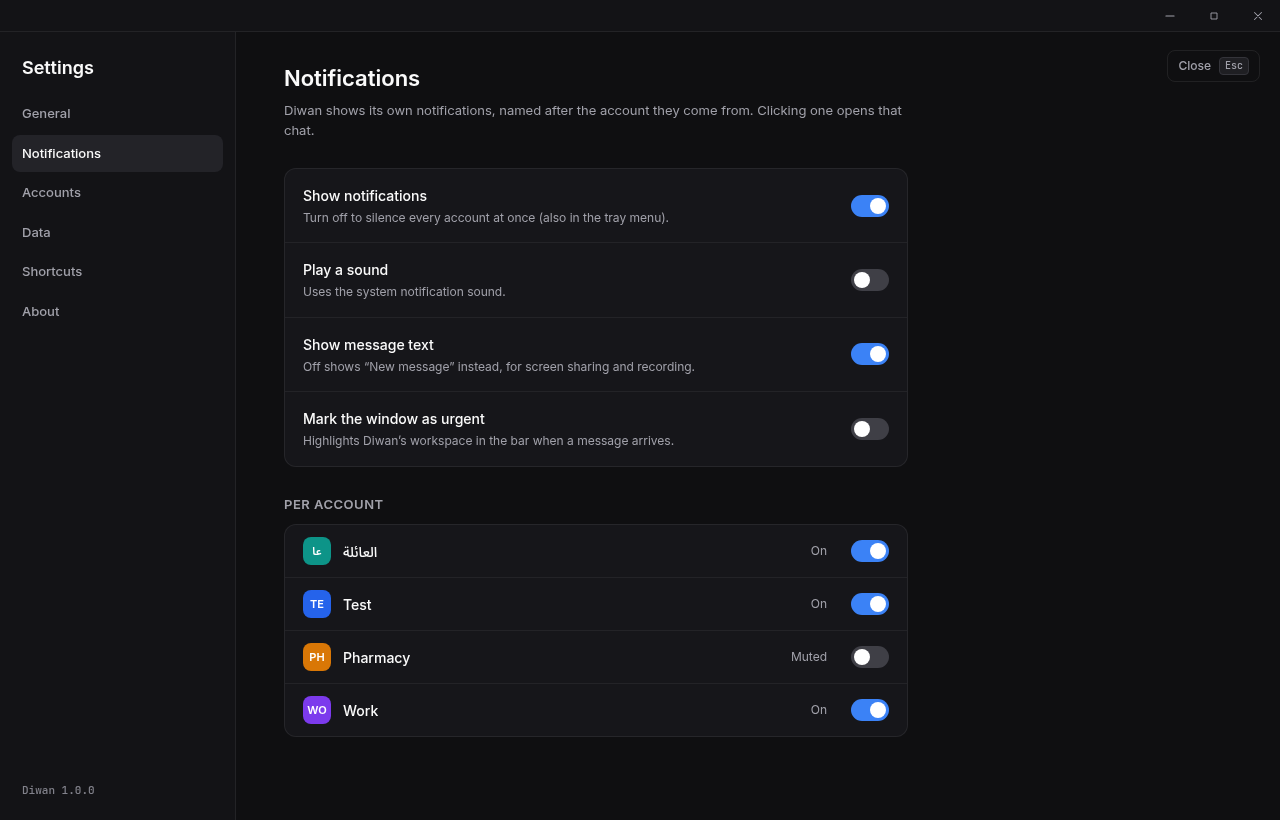
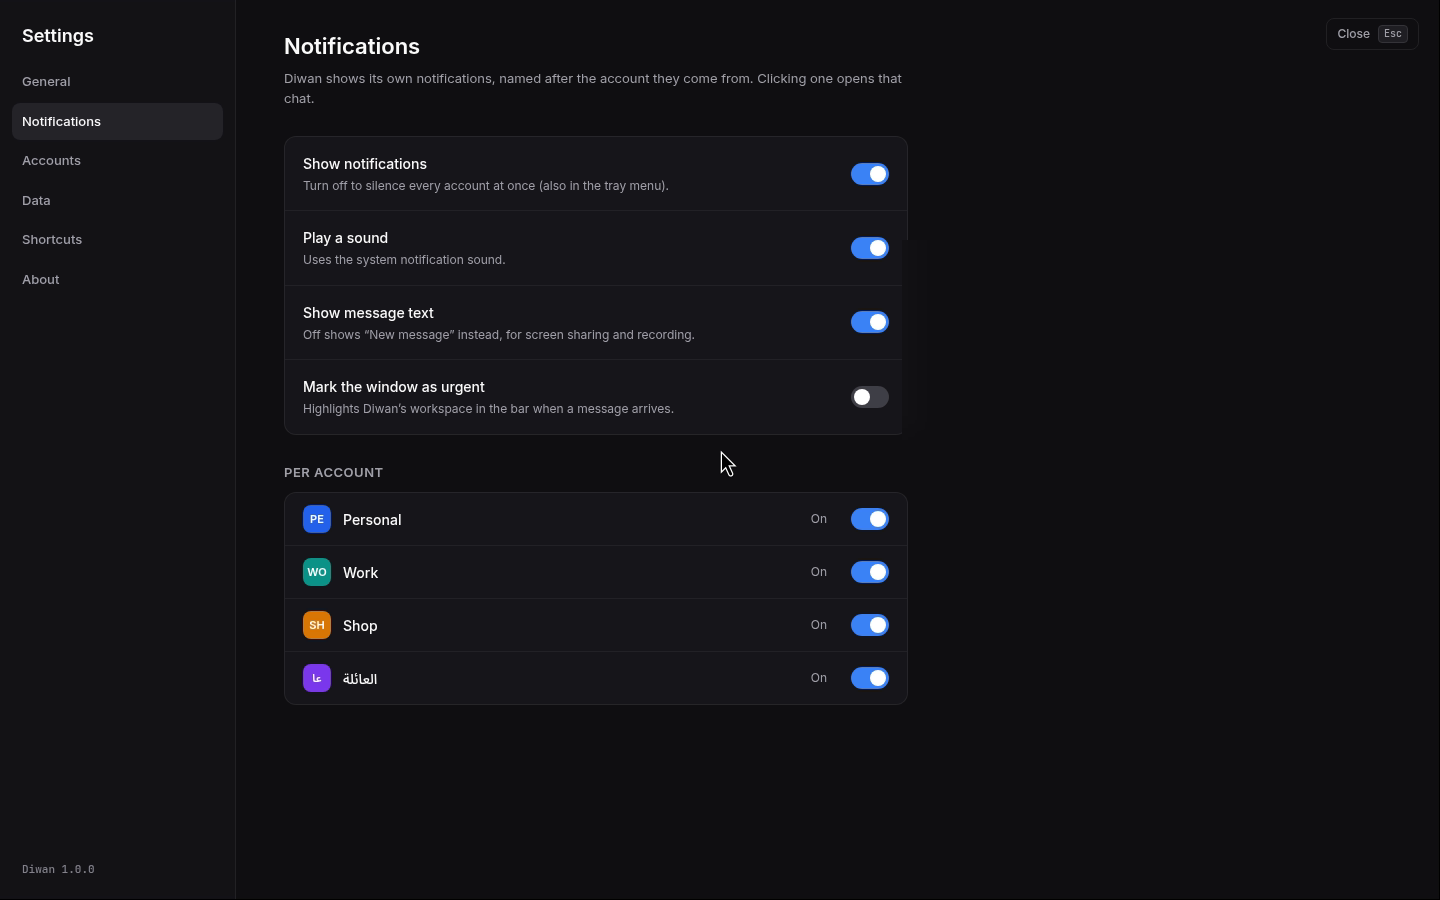
docs: real screenshots and a demo GIF (demo accounts, QR blurred)
Claude-Session: https://claude.ai/code/session_01LeCL23UAbcRLcFKBBvaxuv

diff --git a/README.md b/README.md
@@ -31,11 +31,20 @@ with its own notifications and unread count, one shortcut away.
 
 <br>
 
-<img src="docs/screenshots/settings.png" width="88%" alt="Diwan settings: notifications per account">
+<img src="docs/screenshots/switching.gif" width="88%" alt="Switching between accounts in Diwan">
 
 </div>
 
 <br>
+
+<p align="center">
+  <img src="docs/screenshots/hero.png" width="49%" alt="Four accounts in the rail, one open">
+  <img src="docs/screenshots/menu.png" width="49%" alt="Account menu">
+</p>
+<p align="center">
+  <img src="docs/screenshots/settings.png" width="60%" alt="Notification settings per account">
+</p>
+<p align="center"><sub>Screenshots use demo accounts. The QR code on WhatsApp's login page is blurred.</sub></p>
 
 ## 💡 Why Diwan?
 
